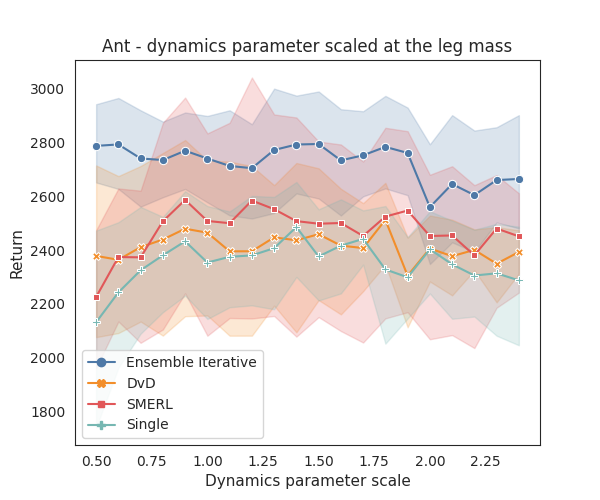
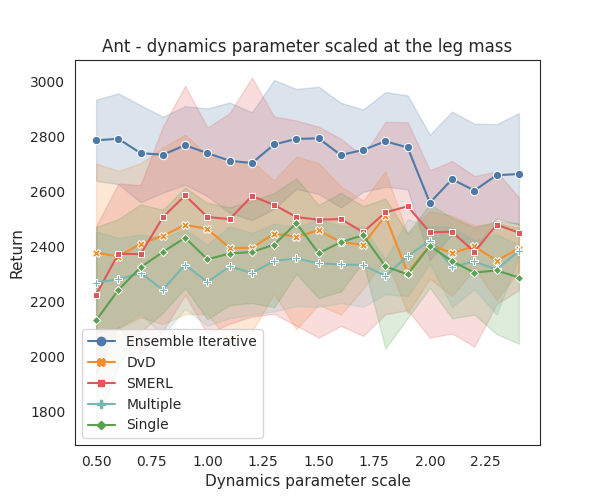
new figure

diff --git a/baseline/multi_policy/test_in_dynamics_disturb.py b/baseline/multi_policy/test_in_dynamics_disturb.py
@@ -60,11 +60,11 @@ def main(path: str, remark: str, env_config: Dict, disturbed_param: List[str], c
     for param_scale in parameter_scale_range:
         if 'mass' in disturbed_param:
             env_config['dynamics_info'].update({
-                'foot_mass_scale':      param_scale,
+                'leg_mass_scale':      param_scale,
             })
         if 'fric' in disturbed_param:
             env_config['dynamics_info'].update({
-                'foot_friction_scale':  param_scale
+                'ankle_friction_scale':  param_scale
             })
 
         remotes = [worker.set_env.remote(env_config) for worker in all_workers]
@@ -88,9 +88,9 @@ def main(path: str, remark: str, env_config: Dict, disturbed_param: List[str], c
 
 if __name__ == '__main__':
     for env in [
-        'Hopper',
+        #'Hopper',
         #'Walker'
-        #'Ant'
+        'Ant'
     ]:
         for seed in [10, 20, 30, 40, 50]:
             for disturb_param in [
@@ -104,8 +104,8 @@ if __name__ == '__main__':
                     env_config={
                         'env_name': env,
                         'dynamics_info': {
-                            'foot_mass_scale': 1,
-                            'foot_friction_scale': 1,
+                            'leg_mass_scale': 1,
+                            'ankle_friction_scale': 1,
                         }
                     },
                     disturbed_param= disturb_param,

diff --git a/script_plot/plot_for_dynamics_disturb.py b/script_plot/plot_for_dynamics_disturb.py
@@ -131,8 +131,8 @@ def plot(csv_path: str, title: str) -> None:
 
 
 if __name__ == '__main__':
-    env_name = 'Hopper'
-    disturbed_param = 'mass'
+    env_name = 'Ant'
+    disturbed_param = 'fric'
 
     plot(
         [
